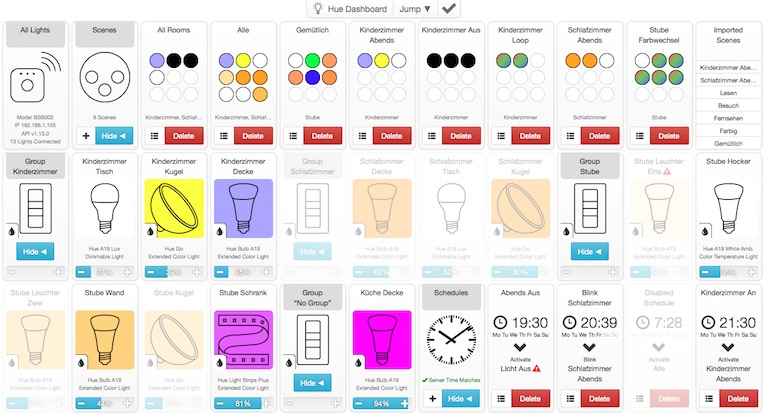
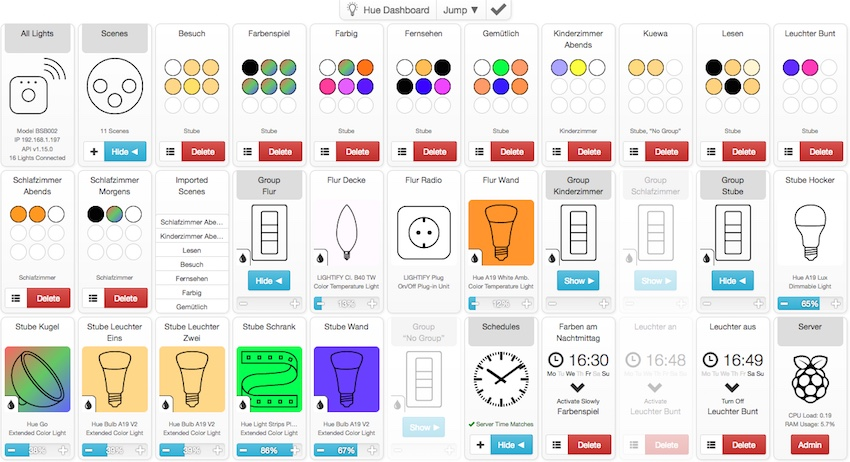
Documentation update

diff --git a/README.md b/README.md
@@ -10,7 +10,7 @@ Accessing the web interface from an iPhone:
 ![Web Interface](https://raw.github.com/blitzcode/hue-dashboard/master/doc-img/web-interface-iphone-1.jpg)
 ![Web Interface](https://raw.github.com/blitzcode/hue-dashboard/master/doc-img/web-interface-iphone-2.jpg)
 
-And the same on the iPad (somewhat older screenshot):
+And the same on the iPad:
 
 ![Web Interface](https://raw.github.com/blitzcode/hue-dashboard/master/doc-img/web-interface-ipad.jpg)
 
@@ -42,6 +42,10 @@ Another view on a Mac desktop browser:
 
 - Lights can be put in a 'color loop' mode where they cycle between all available colors
 - Clicking a light / group caption makes the lamps blink (can be used as a crude form of communication!)
+- Supports various OSRAM LIGHTIFY products that complement the existing Hue ecosystem, i.e. E14 candelabra bulbs and switchable outlets
+
+![Web Interface](https://raw.github.com/blitzcode/hue-dashboard/master/doc-img/web-interface-osram-lightify.png)
+
 - All official Philips Hue lights are recognized and displayed with the appropriate graphics
 - Color temperature lights get their own simpler color picker
 
@@ -134,6 +138,8 @@ The program traces a lot of information and all errors / warnings to the console
 ![Raspberry Pi](https://raw.github.com/blitzcode/hue-dashboard/master/doc-img/raspberry-pi.jpg)
 
 The server for Hue Dashboard needs to live somewhere, and a small ARM machine is an obvious choice if you don't already have a PC running 24/7 in your home. The state of Haskell on ARM is rather unsatisfactory at the moment, so here's a list of steps that worked for me. Hue Dashboard itself has very modest needs, the only real challenge is getting it build. It might be easier to build on an emulator like QEMU or perhaps by renting a cheap ARM VPS with more RAM, but this guide will focus on building on the actual Raspberry Pi.
+
+**Update: There's now a Haskell Stack binary for ARM and newer versions of GHC resolve many of the bugs described here. Looks like there is hope that soon deploying Hue Dashboard on ARM will be as straighforward as x86, making many of these steps obsolete**
 
 * This worked for an Raspbery Pi 3 Model B, other models may or may not give the same results
 * Prepare an SD card with `2016-03-18-raspbian-jessie-lite.img` as the OS image, download from [here](http://downloads.raspberrypi.org/raspbian_lite/images/raspbian_lite-2016-03-18/) or current version [here](https://www.raspberrypi.org/downloads/raspbian/). See [this guide](https://www.raspberrypi.org/documentation/installation/installing-images/) for how to write the SD card. You want at least a 16GB card, Haskell builds are large
